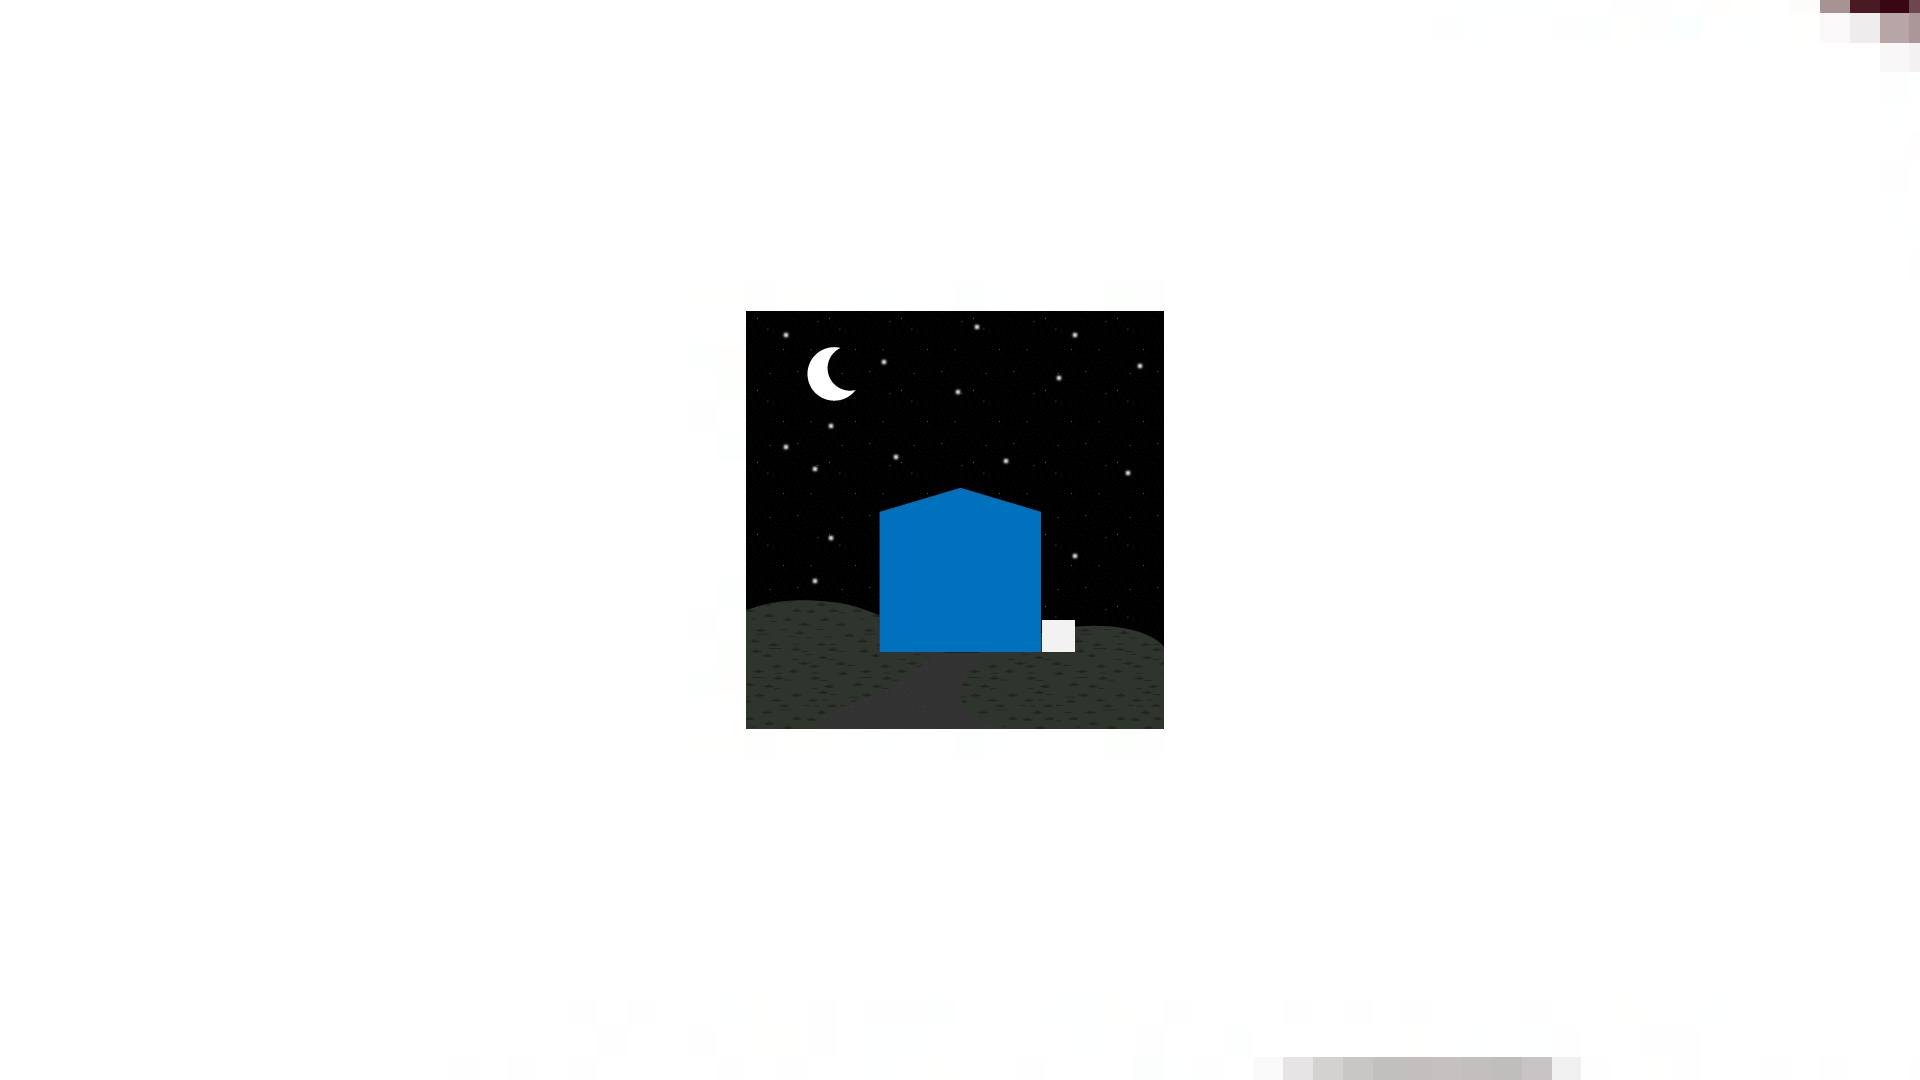
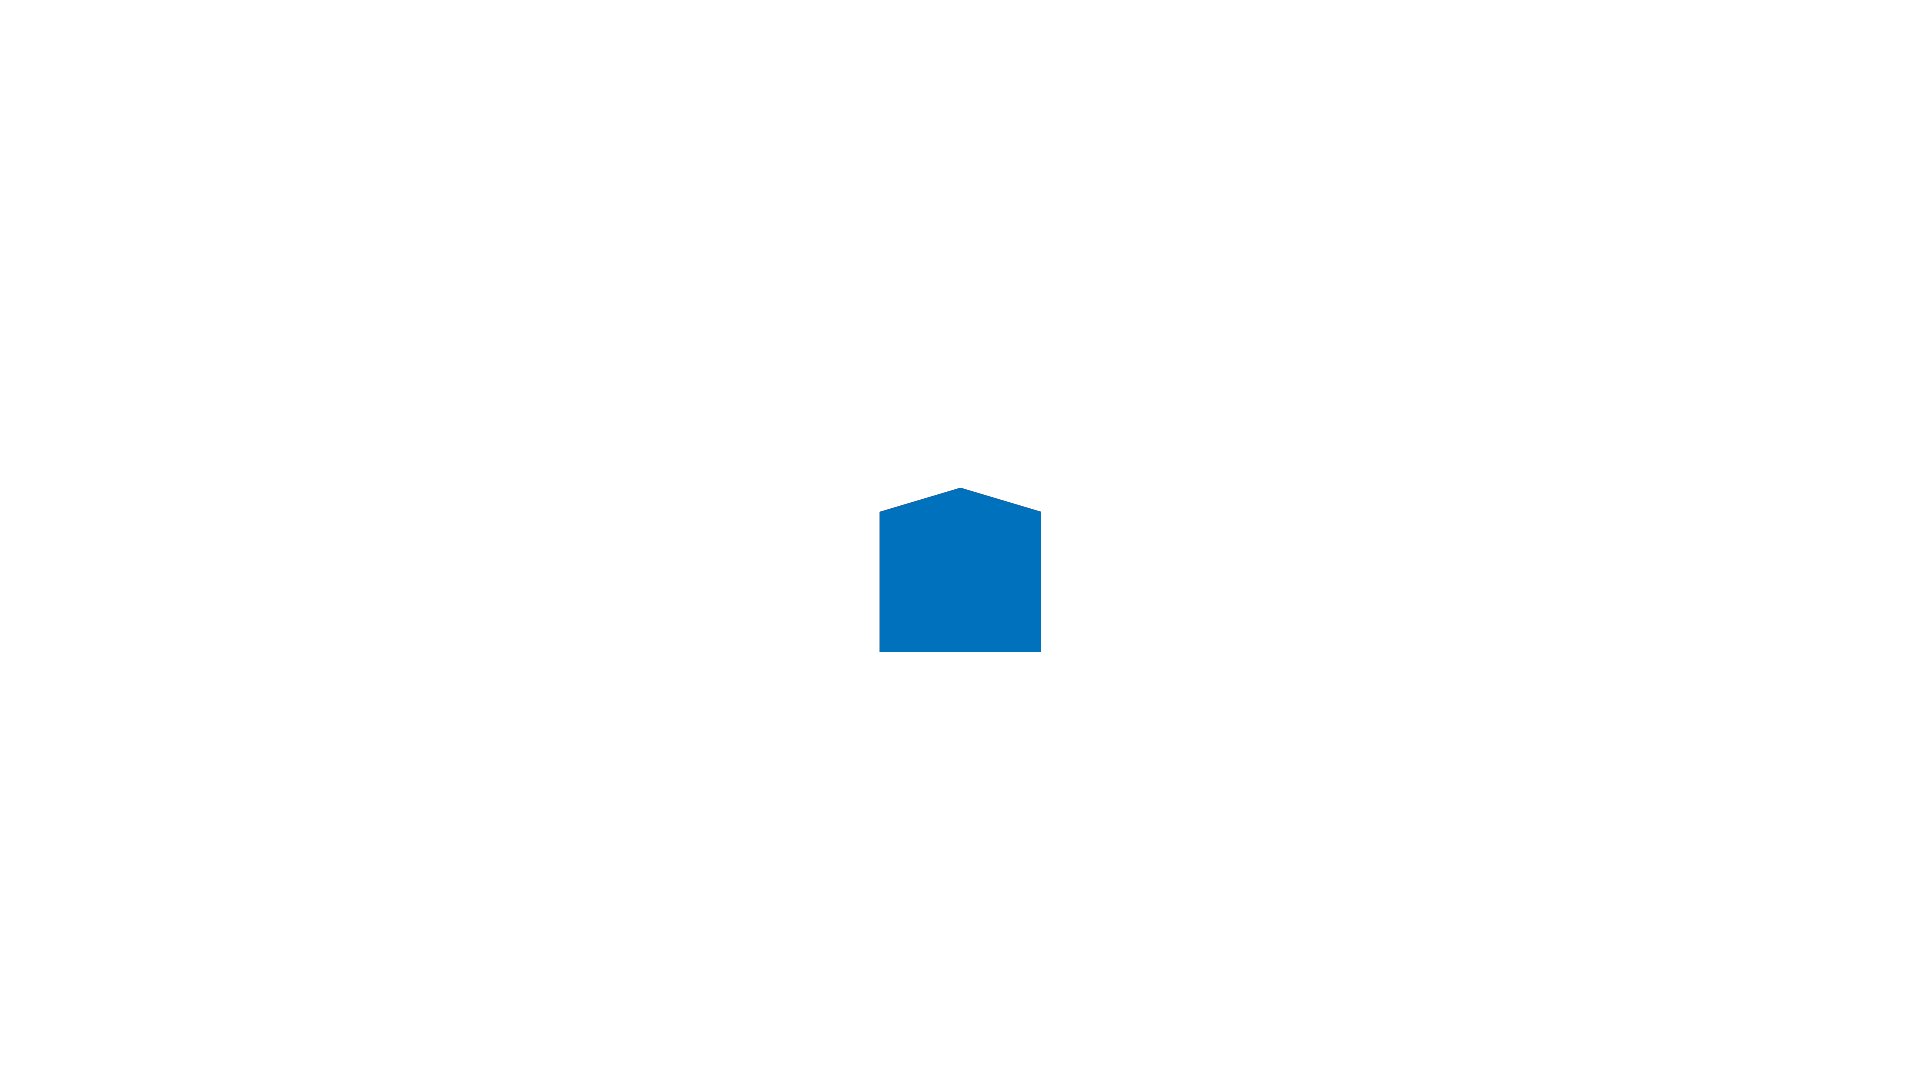
Final

Changed region(s): [[0.375, 0.275, 0.625, 0.6722], [0.6562, 0.9778, 0.8125, 1.0], [0.9375, 0.0, 1.0, 0.0611]]

diff --git a/js/script.js b/js/script.js
@@ -11,7 +11,10 @@ let zoomOutButton = document.querySelector(".average .button");
 let mijnAverageInfo = document.querySelectorAll(".avgeu");
 let hoverFieldOne = document.getElementById('medianEuHover');
 let hoverFieldTwo = document.getElementById("medianAfHover");
-let mijnHoverImg = document.querySelector(".hoverAverage");
+let mijnHoverImgOne = document.querySelector(".hoverAverageOne");
+let mijnHoverImgTwo = document.querySelector(".hoverAverageTwo");
+let paraTwo = document.querySelector(".paraTwo");
+let paraThree = document.querySelector(".paraThree");
 
 
 
@@ -49,38 +52,40 @@ function vierdeStap(){
       mijnAverageInfo[i].classList.remove("onzichtbaar");
       i++;
     }
+
 }
 
 mijnZoomIn.addEventListener("click", vierdeStap);
 
 function blueHover(){
-  mijnHoverImg.classList.toggle("muisOver");
+  mijnHoverImgOne.classList.toggle("muisOver");
+  paraTwo.classList.toggle("muisOver");
 }
 
 hoverFieldOne.addEventListener("mouseover", blueHover);
 hoverFieldOne.addEventListener("mouseout", blueHover);
 
 function vijfdeStap(){
- console.log("lolol");
  hoverFieldTwo.classList.remove("onzichtbaar");
- hoverFieldOne.classList.add("onzichtbaar");
- mijnHoverImg.style.backgroundImage = "url('../wealth_inequality/img/hover_2.png')";
+ //hoverFieldOne.classList.add("onzichtbaar");
+ paraTwo.style.opacity = "1";
  averageOne.style.backgroundImage = "url('../wealth_inequality/img/MED_EU.png')";
 }
 
 hoverFieldOne.addEventListener("click", vijfdeStap);
 
 function redHover(){
-  mijnHoverImg.classList.toggle("muisOver");
+  mijnHoverImgTwo.classList.toggle("muisOver");
+  paraThree.classList.toggle("muisOver");
 }
 
 hoverFieldTwo.addEventListener("mouseover", redHover);
 hoverFieldTwo.addEventListener("mouseout", redHover);
 
 function zesdeStap(){
- console.log("lolol");
- hoverFieldTwo.classList.add("onzichtbaar");
- mijnHoverImg.classList.add("onzichtbaar");
+ //hoverFieldTwo.classList.add("onzichtbaar");
+ paraThree.style.opacity = "1";
+ //mijnHoverImg.classList.add("onzichtbaar");
  averageOne.style.backgroundImage = "url('../wealth_inequality/img/MED_AF.png')";
 }
 

diff --git a/css/mijn.css b/css/mijn.css
@@ -156,6 +156,8 @@ html{
   width: 50px;
   text-align: center;
   color: #0071bc;
+  opacity: 0;
+  transition: 0.6s;
 }
 
 .paraThree{
@@ -166,6 +168,8 @@ html{
   width: 50px;
   text-align: center;
   color: #c1272d;
+  opacity: 0;
+  transition: 0.6s;
 }
 
  .average .button{
@@ -201,7 +205,7 @@ html{
 
 }
 
-.hoverAverage{
+.hoverAverageOne{
   position: absolute;
   top: 0;
   left: 0px;
@@ -209,6 +213,18 @@ html{
   width: 63.36px;
   opacity: 0;
   background-image:url(../img/hover_1.png);
+  background-size: 100%;
+  transition: 0.6s;
+}
+
+.hoverAverageTwo{
+  position: absolute;
+  top: 0;
+  left: 0px;
+  height: 35.64px;
+  width: 63.36px;
+  opacity: 0;
+  background-image:url(../img/hover_2.png);
   background-size: 100%;
   transition: 0.6s;
 }

diff --git a/index.html b/index.html
@@ -20,7 +20,10 @@
           <div class="pixel"></div>
 
 					<div class="average onzichtbaar">
-								<div class="hoverAverage">
+								<div class="hoverAverageOne">
+
+								</div>
+								<div class="hoverAverageTwo">
 
 								</div>
 								<p class="avgeu paraOne">Average European net worth </br> 174 836 USD</p>
